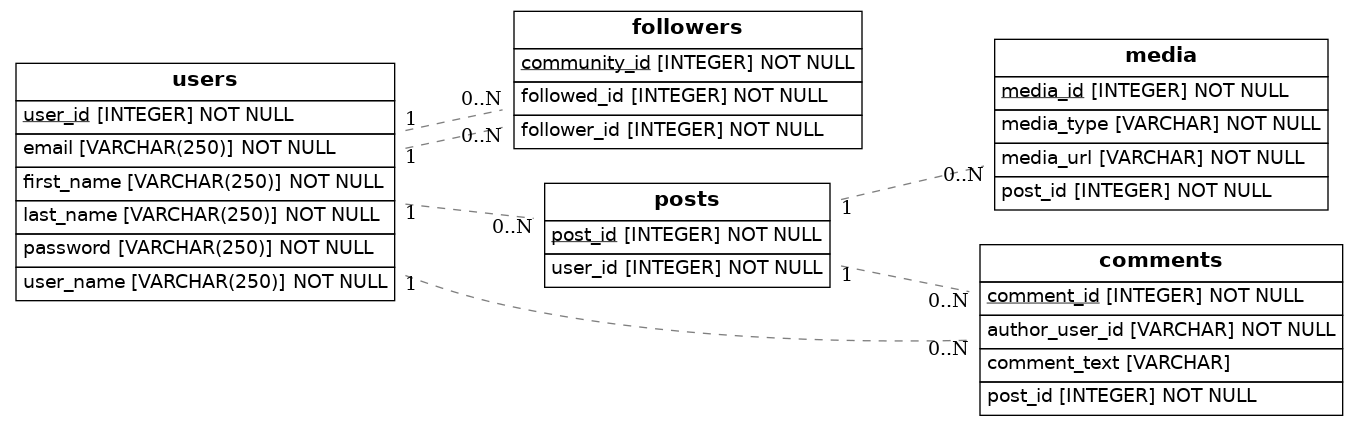
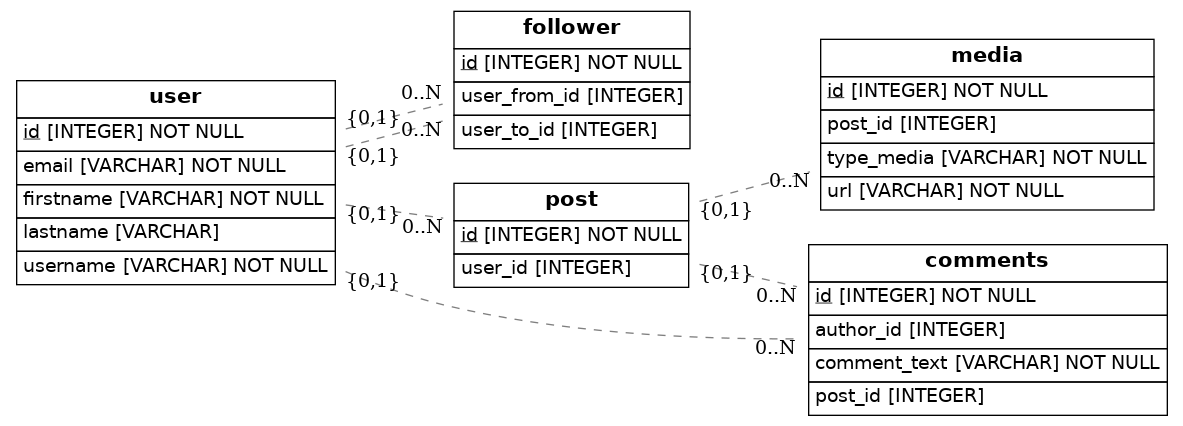
pronto

diff --git a/src/models.py b/src/models.py
@@ -1,49 +1,75 @@
 import os
 import sys
-from sqlalchemy import Column, ForeignKey, Integer, String
-from sqlalchemy.orm import relationship, declarative_base
+from sqlalchemy import Column, ForeignKey, Integer, String, Enum
+from sqlalchemy.ext.declarative import declarative_base
+from sqlalchemy.orm import relationship, sessionmaker
 from sqlalchemy import create_engine
 from eralchemy2 import render_er
 
 Base = declarative_base()
 
-class Users(Base):
-    __tablename__ = 'users'
-    user_id = Column(Integer, primary_key=True)
-    user_name = Column(String(250), nullable=False)
-    first_name = Column(String(250), nullable=False)
-    last_name = Column(String(250), nullable=False)
-    email = Column(String(250), nullable=False)
-    password = Column(String(250), nullable=False)
-    
-class Followers(Base):
-    __tablename__ = 'followers'
-    community_id = Column(Integer, primary_key=True) # Should it be necessary!?
-    follower_id = Column(Integer, ForeignKey('users.user_id'), nullable=False)
-    followed_id = Column(Integer, ForeignKey('users.user_id'), nullable=False)
+class Follower(Base):
+    __tablename__ = 'follower'
+    # Here we define columns for the table person
+    # Notice that each column is also a normal Python instance attribute.
+    id = Column(Integer, primary_key=True)
+    user_from_id = Column(Integer, ForeignKey('user.id'))
+    user_to_id = Column(Integer, ForeignKey('user.id'))
 
-class Posts(Base):
-    __tablename__ = 'posts'
-    post_id = Column(Integer, primary_key=True)
-    user_id = Column(Integer, ForeignKey('users.user_id'), nullable=False)
+    user = relationship("User", back_populates = "follower")
+
+class User(Base):
+    __tablename__ = 'user'
+    # Here we define columns for the table address.
+    # Notice that each column is also a normal Python instance attribute.
+    id = Column(Integer, primary_key=True)
+    username = Column(String, nullable=False, unique=True, index=True)
+    firstname = Column(String, nullable=False)
+    lastname = Column(String, nullable=True)
+    email = Column(String, nullable=False, unique=True)
+
+    follower = relationship("Follower", back_populates = "user")
+    post = relationship("Post", back_populates = "user")
+    comment = relationship("Comment", back_populates = "user")
+
+
+    def to_dict(self):
+        return {}
 
 class Media(Base):
     __tablename__ = 'media'
-    media_id = Column(Integer, primary_key=True)
-    media_type = Column(String, nullable=False) # 'enum'!?
-    media_url = Column(String, nullable=False)
-    post_id = Column(Integer, ForeignKey('posts.post_id'), nullable=False)
+    # Here we define columns for the table person
+    # Notice that each column is also a normal Python instance attribute.
+    id = Column(Integer, primary_key=True)
+    url = Column(String, nullable=False)
+    post_id = Column(Integer, ForeignKey('post.id'))
 
-class Comments(Base):
+    post = relationship("Post", back_populates = "media")
+
+class Post(Base):
+    __tablename__ = 'post'
+    # Here we define columns for the table person
+    # Notice that each column is also a normal Python instance attribute.
+    id = Column(Integer, primary_key=True)
+    user_id = Column(Integer, ForeignKey('user.id'))
+
+    user = relationship("User", back_populates = "post")
+    media = relationship("Media", back_populates = "post")
+    comment = relationship("Comment", back_populates = "post")
+
+
+class Comment(Base):
     __tablename__ = 'comments'
-    comment_id = Column(Integer, primary_key=True)
-    comment_text = Column(String)
-    author_user_id = Column(String, ForeignKey('users.user_id'), nullable=False)
-    post_id = Column(Integer, ForeignKey('posts.post_id'), nullable=False)
-    
+    # Here we define columns for the table person
+    # Notice that each column is also a normal Python instance attribute.
+    id = Column(Integer, primary_key=True)
+    comment_text = Column(String, nullable=False)
+    author_id = Column(Integer, ForeignKey('user.id'))
+    post_id = Column(Integer, ForeignKey('post.id'))
 
-def to_dict(self):
-        return {}
+    user = relationship("User", back_populates = "comment")
+    post = relationship("Post", back_populates = "comment")
+
 
 ## Draw from SQLAlchemy base
 try:
